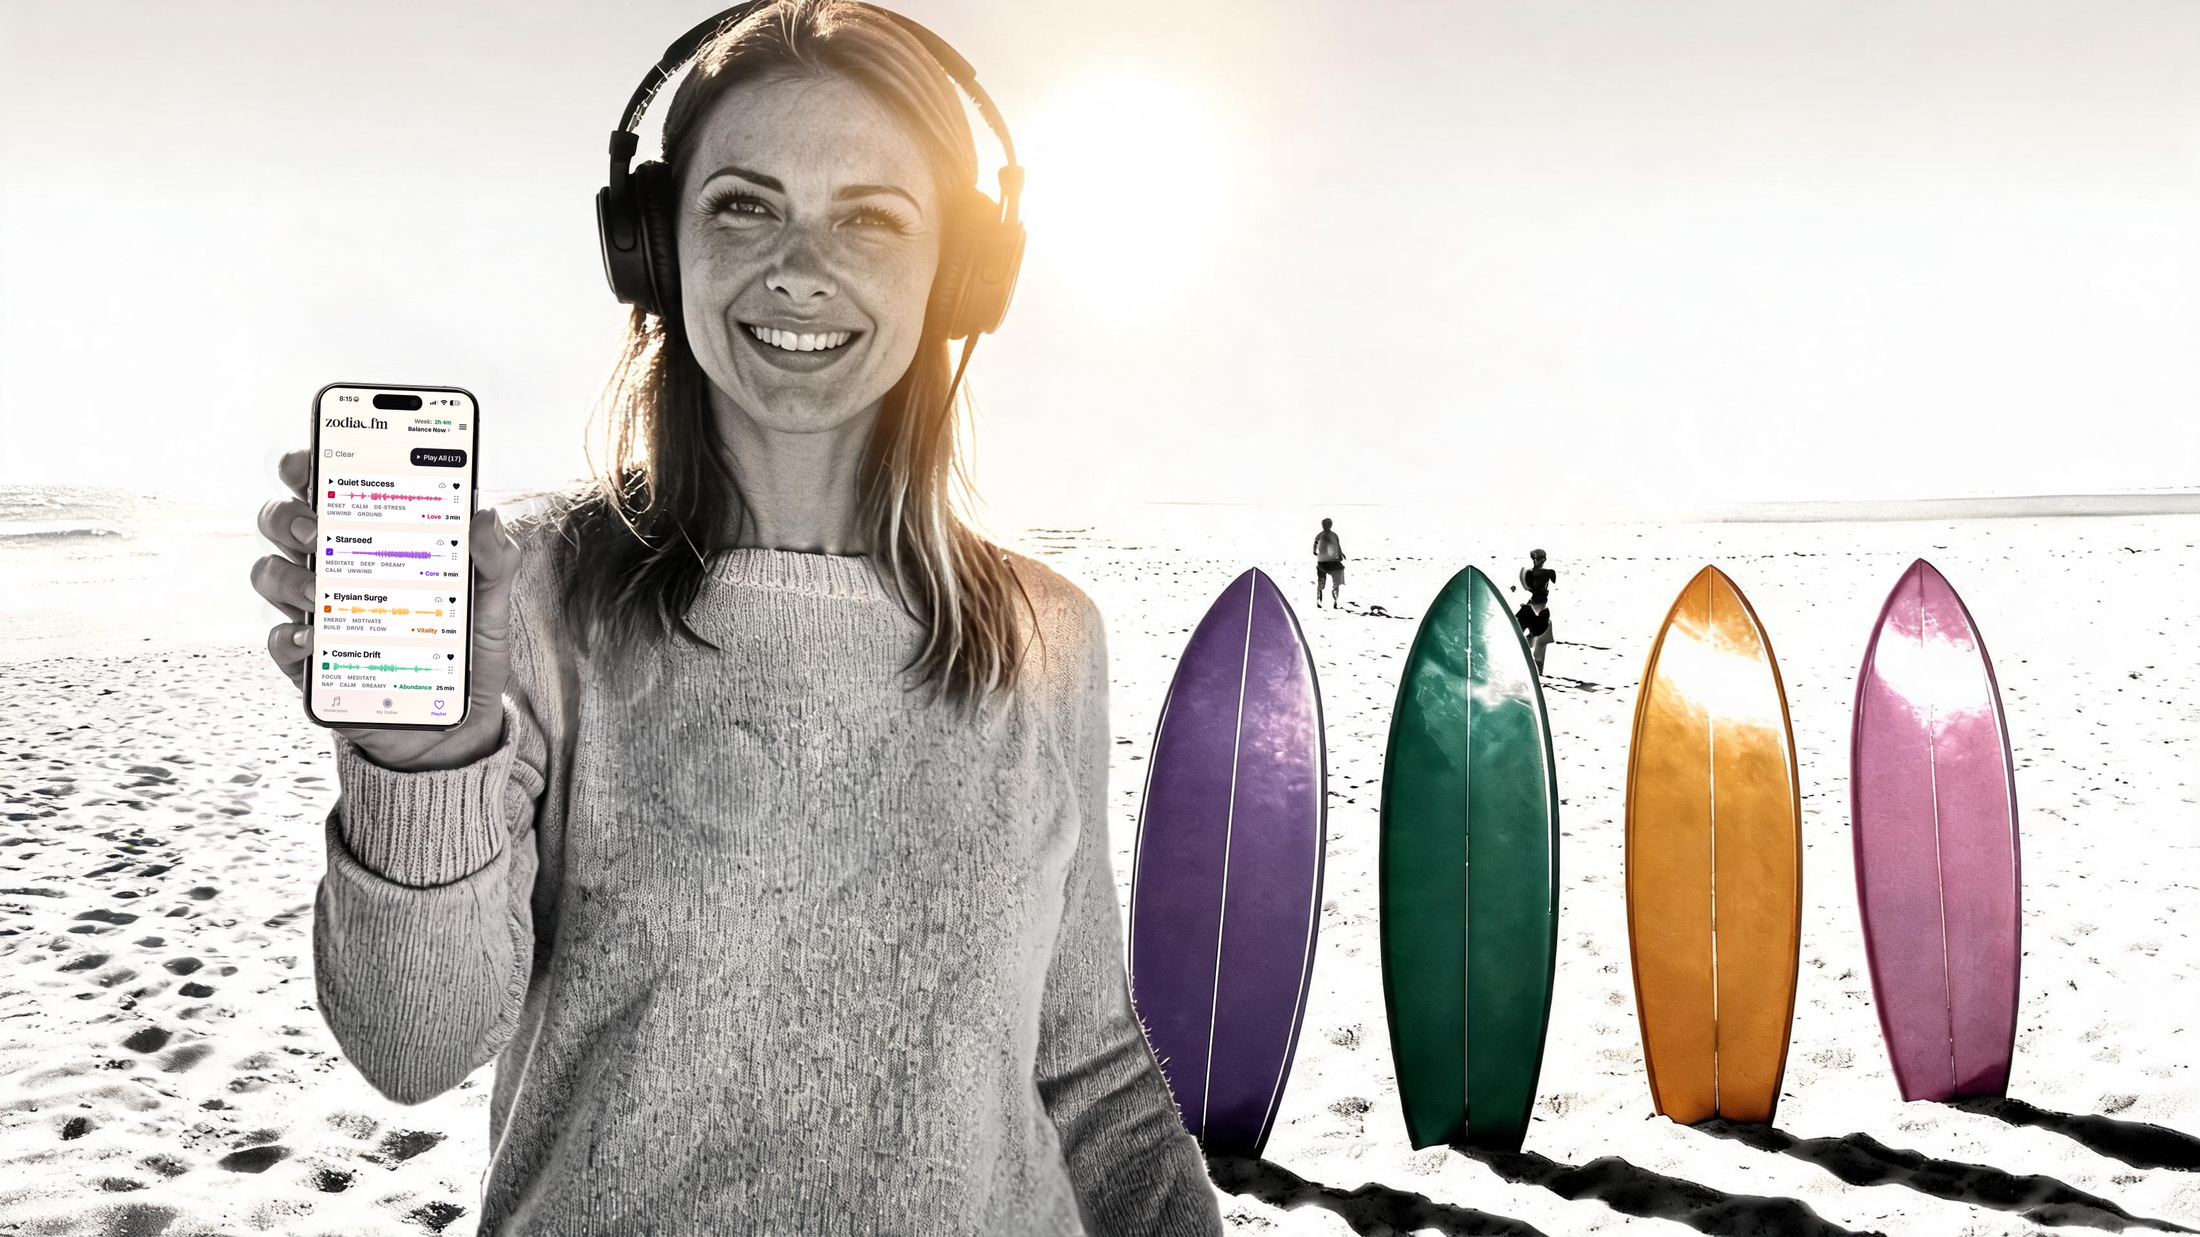
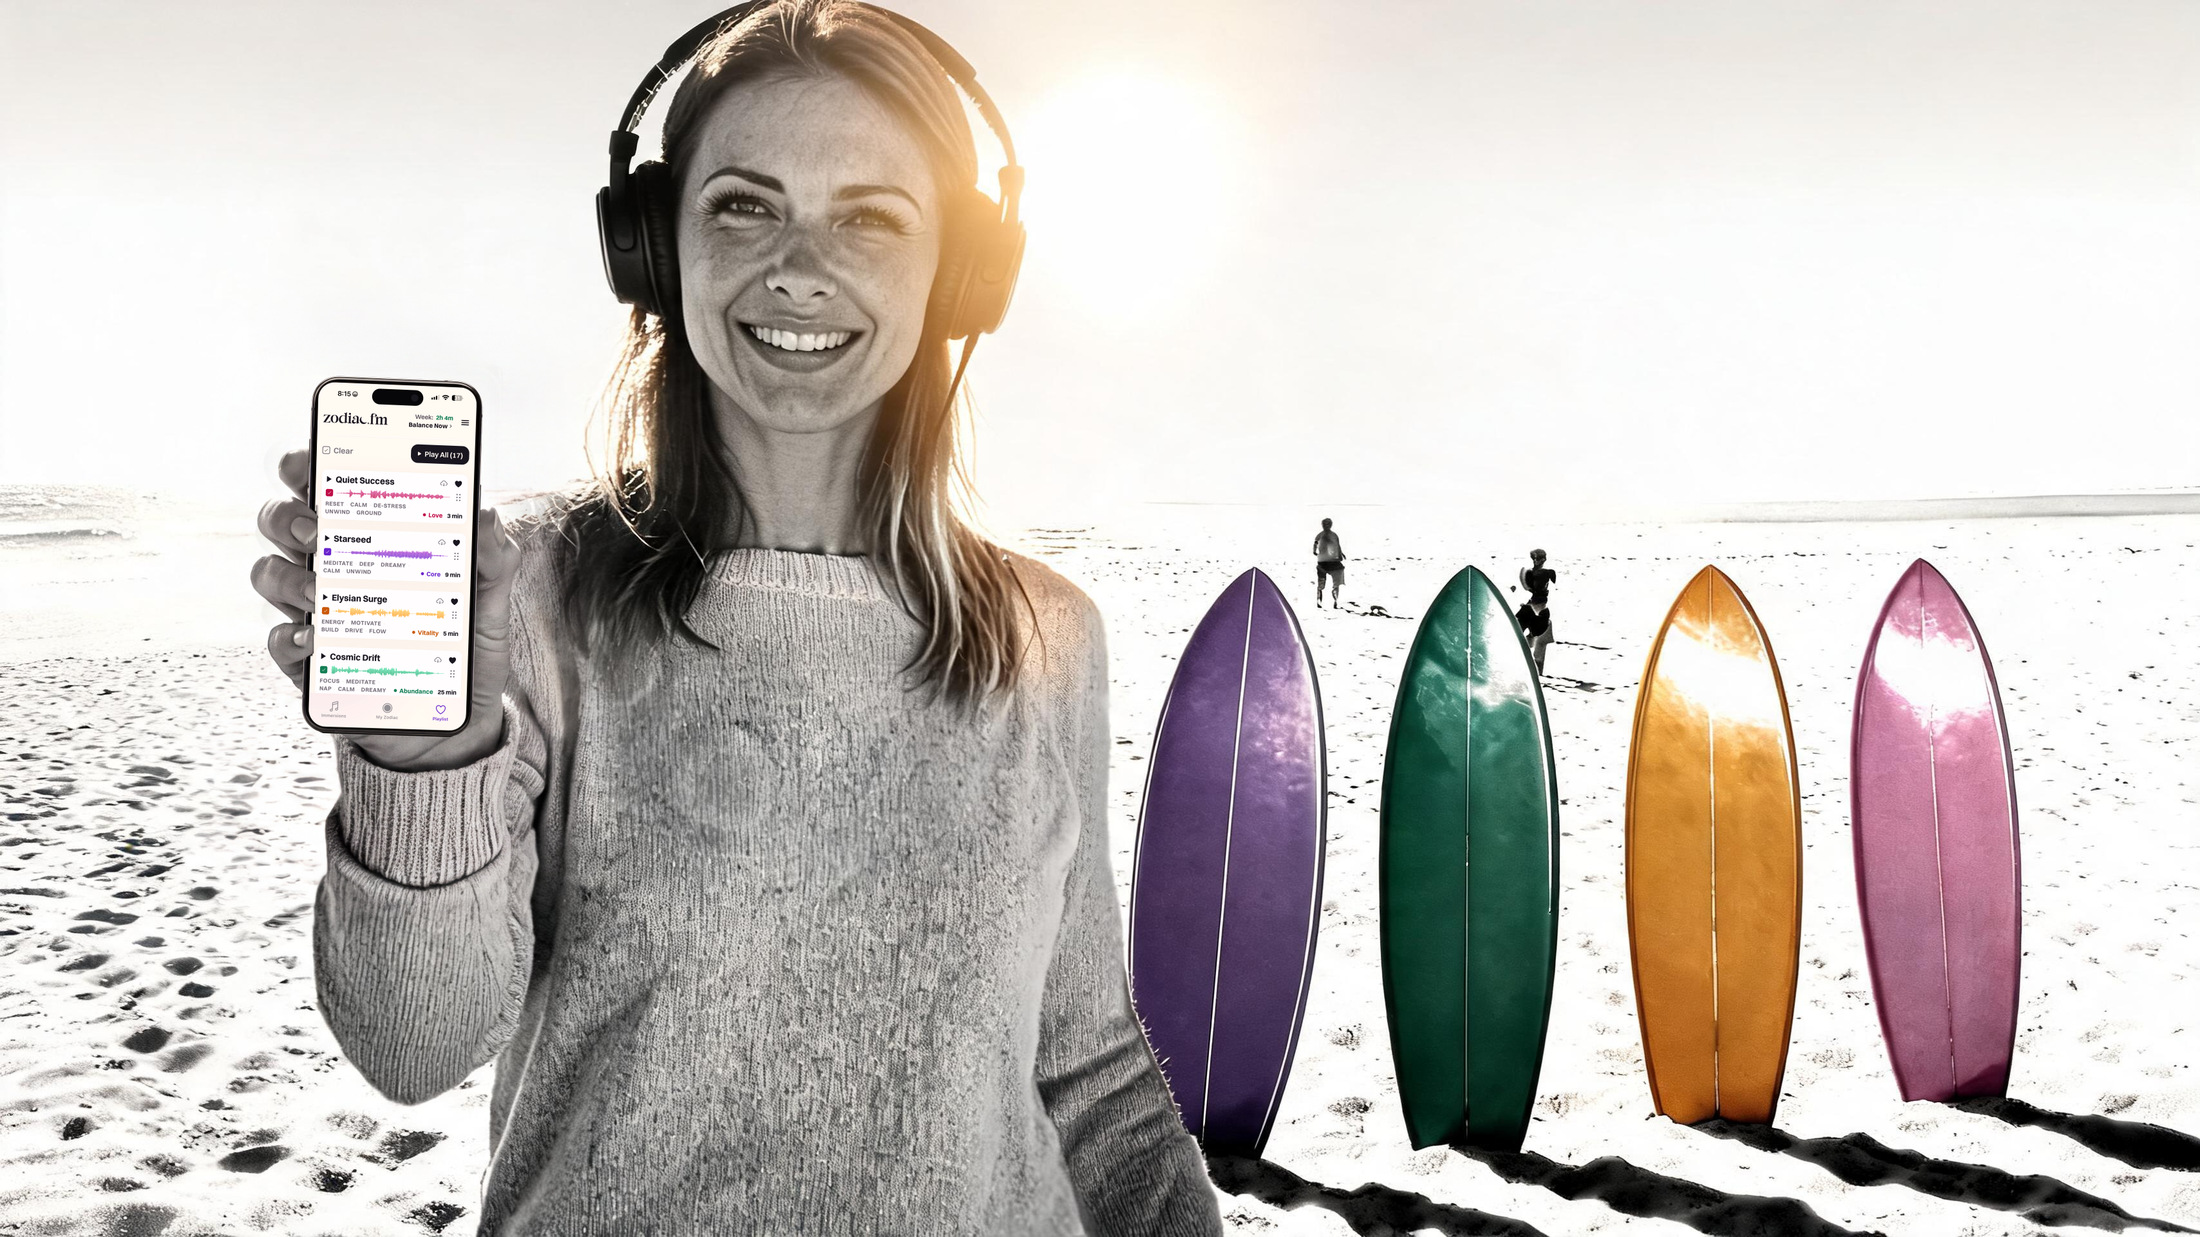
Hero P-177 v2: the old phone buried, the P-208 phone whole to the bottom
fd-074, Michael: "the hero lady also needs the perfect 208 phone which it is
not..(look at the bottom)." The old device's feathered footprint extended up
to 7 px past the fitted quad and showed as a second lip under the new bezel.
The P-208 cutout is now scaled 1.0326 about the same centre (cap 1.035) so
0 old-phone pixels remain; 2,154 px of "hand" that were the old rail are
dropped; 3,101 px of fingertip re-laid on the new rail. Outside the old
footprint + 8 px the photograph is bit-identical (MAD 0, max 0).

Changed region(s): [[0.1236, 0.3072, 0.2164, 0.6144]]

diff --git a/site/styleguide-library.html b/site/styleguide-library.html
@@ -695,7 +695,7 @@
     </figure>
     <figure class="photo" id="p-177">
       <img loading="lazy" src="/site/assets/hero-home/hero-home-real-screen-01.jpg" alt="A woman with large black headphones in a cream knitted sweater, smiling and holding up a real iPhone whose screen carries the live zodiac.fm Playlist, on a blown-out white beach with four surfboards in violet, emerald, amber and rose, the after-noon sun standing high in the middle of the sky and making all the light">
-      <figcaption><b class="pid">P-177</b><span class="ttl">Hero Home &middot; Real Screen 01</span><span class="recipe"><i>RECIPE</i> after-noon sun standing high makes all the light; four boards carry the chord beneath it. THE hero: the lady in the cream sweater, a real iPhone at true 19.5:9 proportion, carrying iPhone &middot; Real Screen 01 unmodified. Replaced P-163 one-for-one (retired 2026-09-04, Michael&#x27;s word: the P-163 phone was drawn, not photographed, with an old screen pasted over it); pages built on the old plate keep it. REBUILT 2026-09-06 (fd-073): the phone in her hand is now P-208 The Phone, Frame 04 Build, warped as one layer into the measured body quad at the 3416 master (screen 2.18 tall-to-wide against a true 2.17), her fingers re-laid over the new bezel from the master, bezel gain fitted to the beach light; every pixel outside the phone is bit-identical to the previous cut.</span></figcaption>
+      <figcaption><b class="pid">P-177</b><span class="ttl">Hero Home &middot; Real Screen 01</span><span class="recipe"><i>RECIPE</i> after-noon sun standing high makes all the light; four boards carry the chord beneath it. THE hero: the lady in the cream sweater, a real iPhone at true 19.5:9 proportion, carrying iPhone &middot; Real Screen 01 unmodified. Replaced P-163 one-for-one (retired 2026-09-04, Michael&#x27;s word: the P-163 phone was drawn, not photographed, with an old screen pasted over it); pages built on the old plate keep it. REBUILT 2026-09-06 (fd-073, fd-074): the phone in her hand is P-208 The Phone, Frame 04 Build, frontal with the hand&#x27;s 2.4&deg; tilt, scaled 1.033 about the old phone&#x27;s centre so the old device&#x27;s whole footprint is buried (0 old-phone pixels visible), her fingertips re-laid on the new rail from the master, bezel gain fitted to the beach light; outside the old footprint the photograph is byte-identical.</span></figcaption>
     </figure>
     </div>
   </div>
